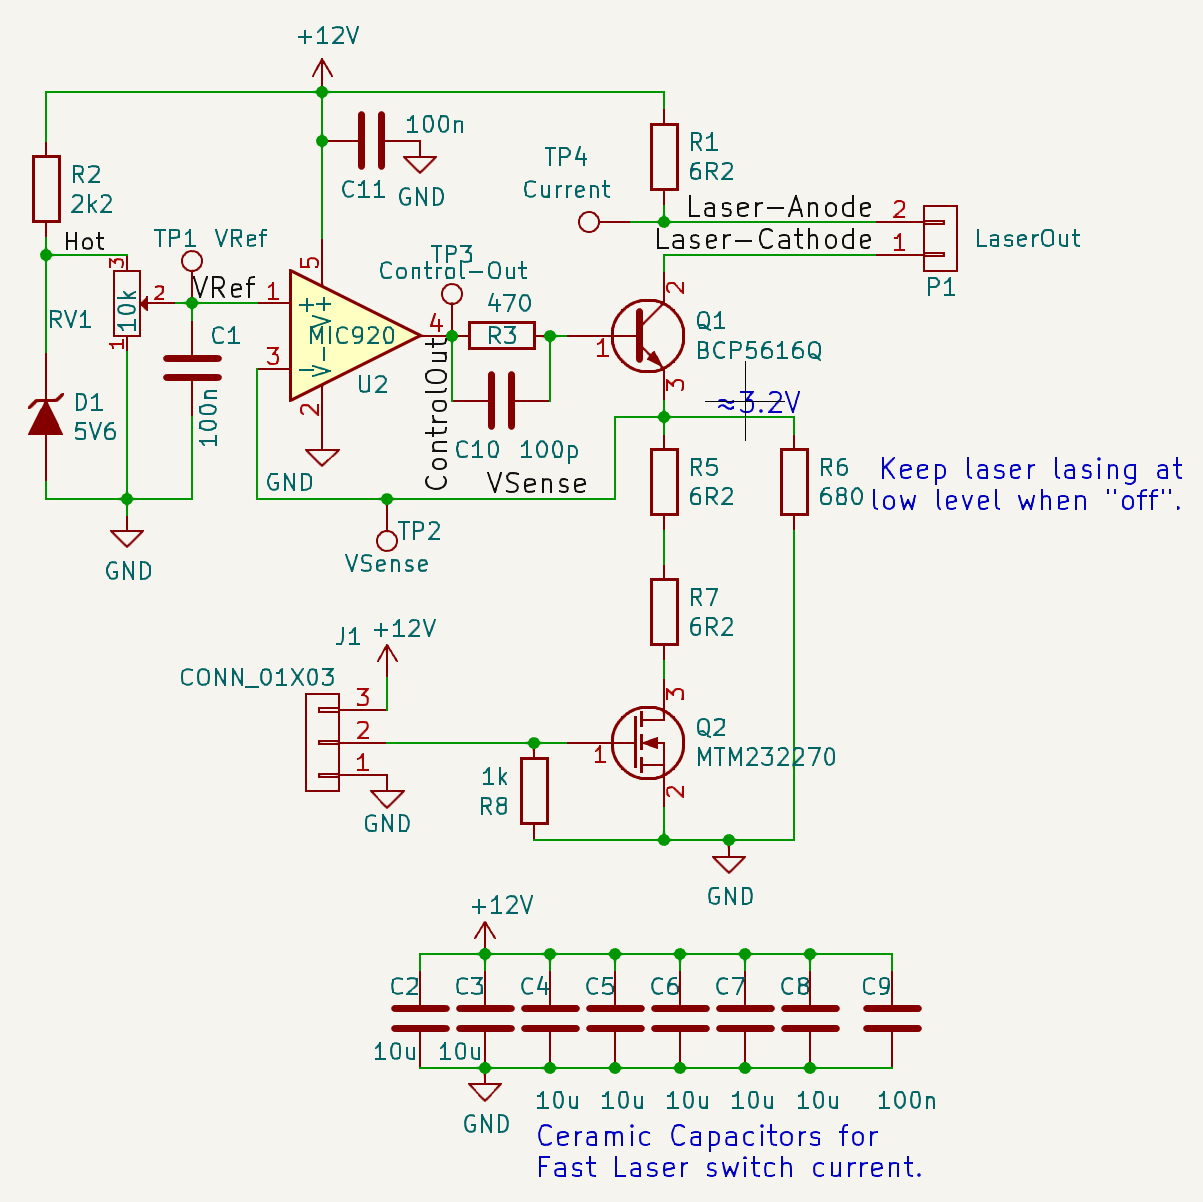
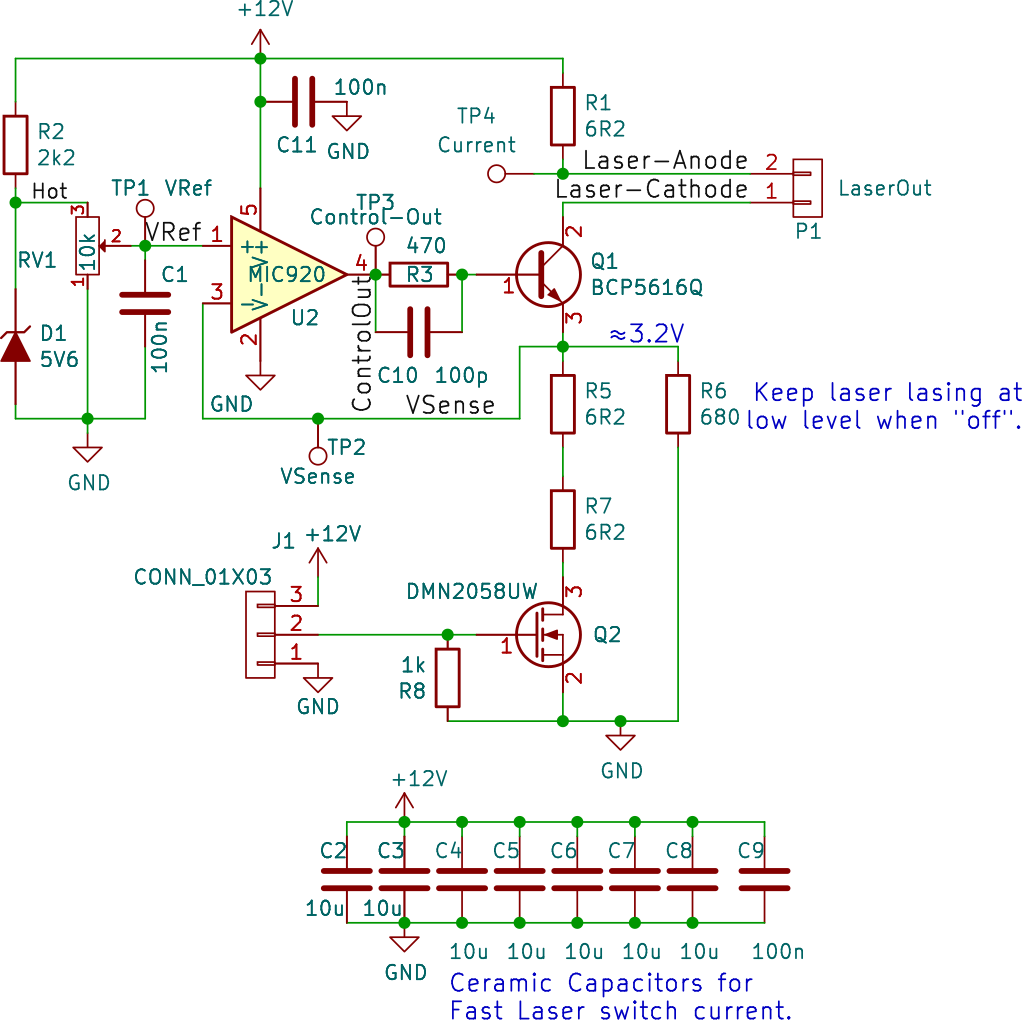
Update transistor that is out of production.
MTM232270 -> DMN2058UW

Changed region(s): [[0.0, 0.0, 1.0, 0.7583], [0.3125, 0.728, 0.7812, 1.0]]

diff --git a/pcb/laser-drive/README.md b/pcb/laser-drive/README.md
@@ -4,8 +4,30 @@ Laser Driver Board
 Laser driver board, a current source switchable with a TTL input. Place this
 as close as possible to the Laser with short wires.
 
-There are probably better ways to have a fast current switching driver for
-lasers that don't have a feedback line. Suggestions welcome.
+### BOM
+
+Qty | Reference(s)              |  Value    |   Footprint
+----|---------------------------|-----------|-----------------------------
+2   | C1, C11                   | 100n      | 0603
+7   | C2, C3, C4, C5, C6, C7, C8| 10u       | 1210
+1   | C9                        | 100n      | 0805
+1   | C10                       | 100p      | 0603
+1   | D1                        | 5V6 zener | SOD-323
+1   | J1                        | CONN_01X03 | JST_EH_B3B-EH-A_1x03_P2.50mm
+1   | P1                        | LaserOut   | JST_EH_B2B-EH-A_1x02_P2.50mm
+1   | Q1                        | BCP5616Q  | SOT-223-3
+1   | Q2                        | DMN2058UW | SOT-323_SC-70
+3   | R1, R5, R7                | 6R2       | 2512
+1   | R2                        | 2k2       | 0603
+1   | R3                        | 470       | 0603
+1   | R6                        | 680       | 0603
+1   | R8                        | 1k        | 0603
+1   | RV1                       | 10k       | Multi-turn trimmer (through-hole, 2.54mm pitch)
+1   | U2                        |  MIC920   | SOT-353_SC-70-5
 
 ![](../../img/laser-drive-schematic.png)
 ![](../../img/laser-drive-render.jpg)
+
+
+There are probably better ways to have a fast current switching driver for
+lasers that don't have a feedback line. Suggestions welcome.
